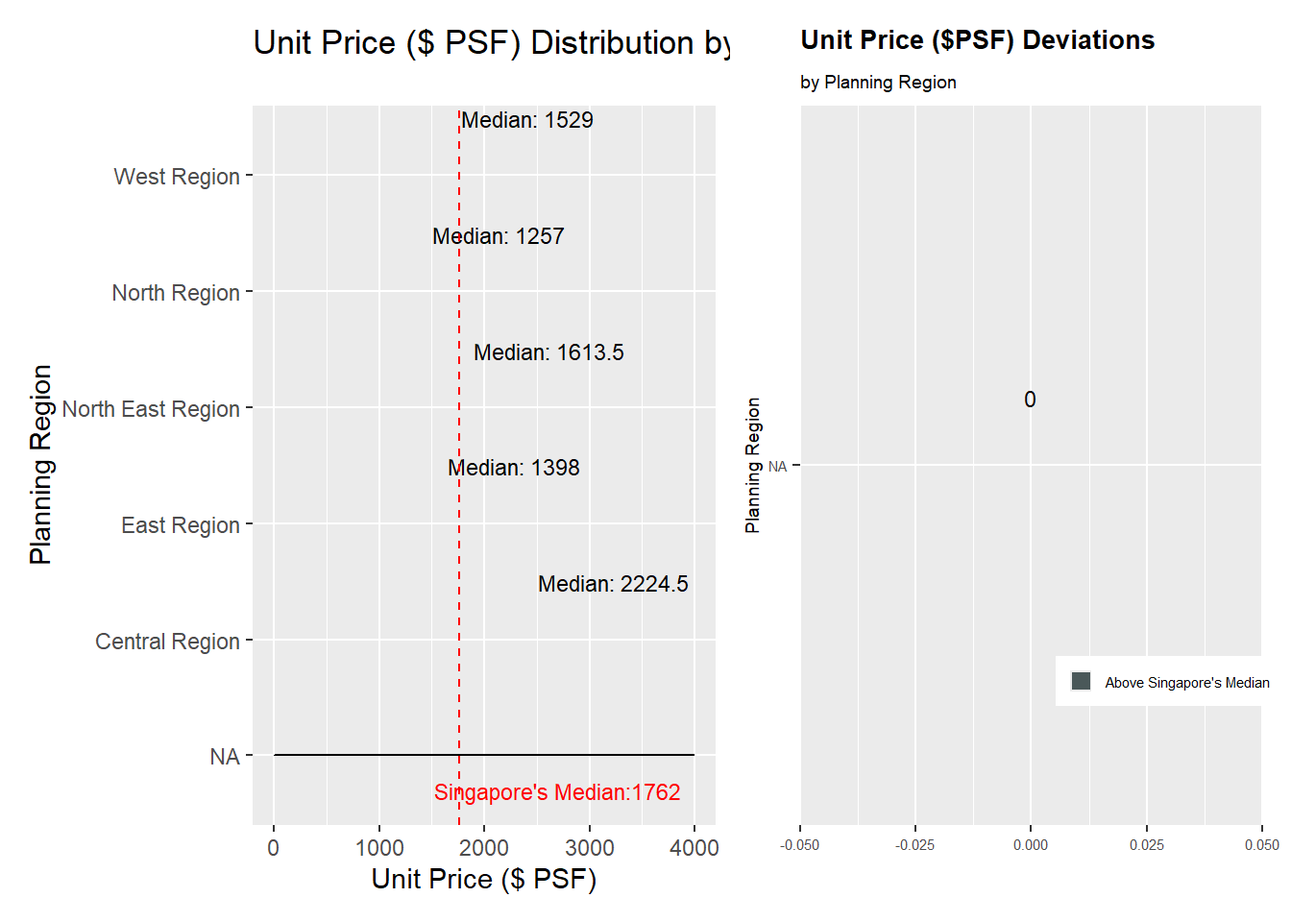
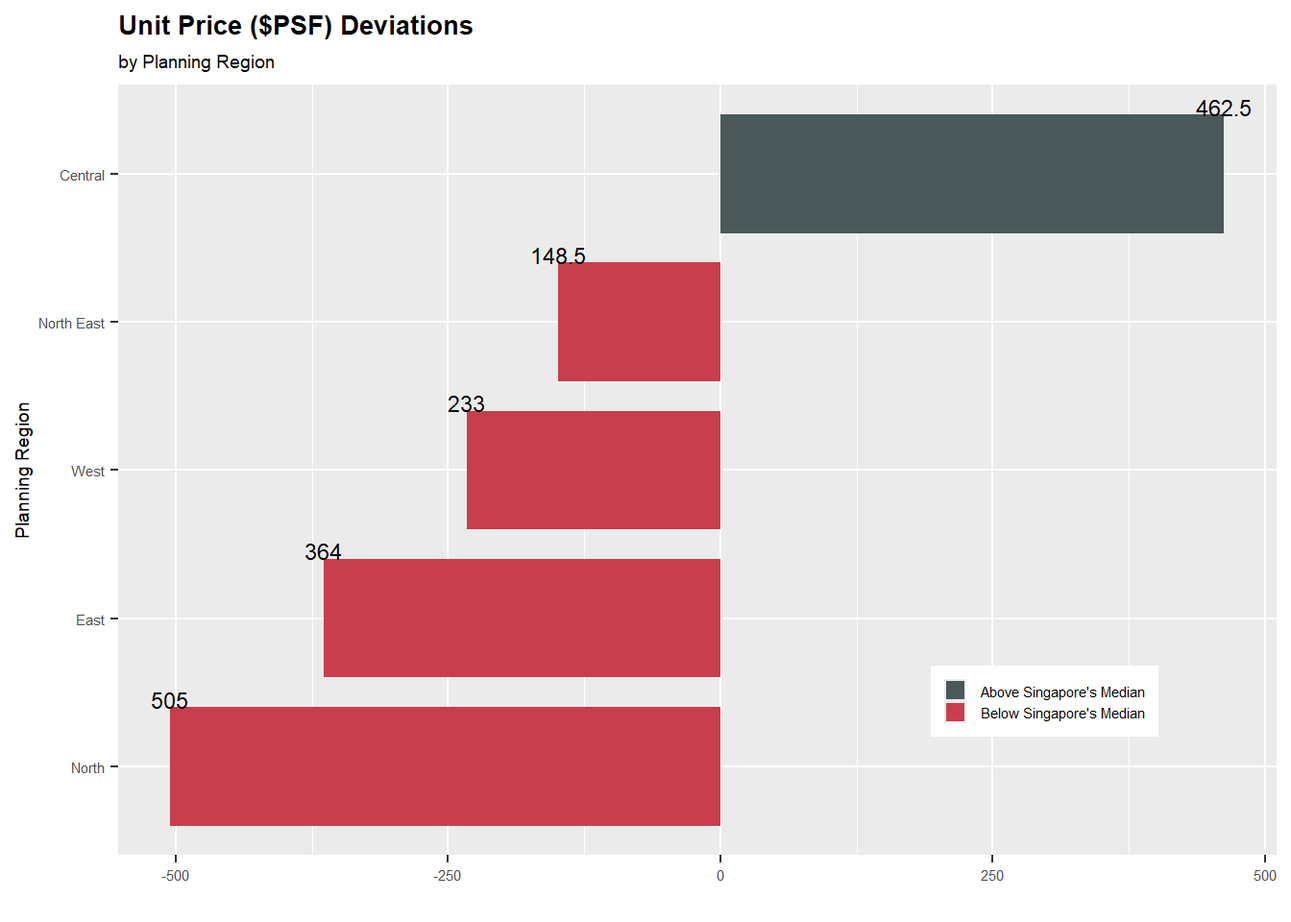
commit

diff --git a/_site/Take-home Exercise/Take-home_Ex02/Take-home_Ex02.html b/_site/Take-home Exercise/Take-home_Ex02/Take-home_Ex02.html
@@ -328,7 +328,7 @@ pre > code.sourceCode > span > a:first-child::before { text-decoration: underlin
     <div>
     <div class="quarto-title-meta-heading">Modified</div>
     <div class="quarto-title-meta-contents">
-      <p class="date-modified">May 1, 2024</p>
+      <p class="date-modified">May 2, 2024</p>
     </div>
   </div>
     
@@ -566,85 +566,78 @@ pre > code.sourceCode > span > a:first-child::before { text-decoration: underlin
 <span id="cb6-11"><a href="#cb6-11" aria-hidden="true" tabindex="-1"></a>                                  <span class="st">"North Region"</span> <span class="ot">=</span> <span class="st">"North"</span>,</span>
 <span id="cb6-12"><a href="#cb6-12" aria-hidden="true" tabindex="-1"></a>                                  <span class="st">"North East Region"</span> <span class="ot">=</span> <span class="st">"North East"</span>,</span>
 <span id="cb6-13"><a href="#cb6-13" aria-hidden="true" tabindex="-1"></a>                                  <span class="st">"West Region"</span> <span class="ot">=</span> <span class="st">"West"</span></span>
-<span id="cb6-14"><a href="#cb6-14" aria-hidden="true" tabindex="-1"></a>                                  ))</span>
-<span id="cb6-15"><a href="#cb6-15" aria-hidden="true" tabindex="-1"></a></span>
-<span id="cb6-16"><a href="#cb6-16" aria-hidden="true" tabindex="-1"></a>combined_ds <span class="ot">&lt;-</span> combined_ds <span class="sc">%&gt;%</span></span>
-<span id="cb6-17"><a href="#cb6-17" aria-hidden="true" tabindex="-1"></a>  <span class="fu">mutate</span>(<span class="st">`</span><span class="at">Planning Region</span><span class="st">`</span> <span class="ot">=</span> <span class="fu">factor</span>(<span class="st">`</span><span class="at">Planning Region</span><span class="st">`</span>, <span class="at">levels =</span> median_values<span class="sc">$</span><span class="st">`</span><span class="at">Planning Region</span><span class="st">`</span>[<span class="fu">order</span>(median_values<span class="sc">$</span>median_value)]))</span></code><button title="Copy to Clipboard" class="code-copy-button"><i class="bi"></i></button></pre></div>
+<span id="cb6-14"><a href="#cb6-14" aria-hidden="true" tabindex="-1"></a>                                  ))</span></code><button title="Copy to Clipboard" class="code-copy-button"><i class="bi"></i></button></pre></div>
 </div>
 <div class="cell">
-<div class="sourceCode cell-code" id="cb7"><pre class="sourceCode r code-with-copy"><code class="sourceCode r"><span id="cb7-1"><a href="#cb7-1" aria-hidden="true" tabindex="-1"></a>p1 <span class="ot">&lt;-</span> <span class="fu">ggplot</span>(combined_ds, </span>
-<span id="cb7-2"><a href="#cb7-2" aria-hidden="true" tabindex="-1"></a>       <span class="fu">aes</span>(<span class="at">x =</span> <span class="st">`</span><span class="at">Unit Price ($ PSF)</span><span class="st">`</span>, </span>
-<span id="cb7-3"><a href="#cb7-3" aria-hidden="true" tabindex="-1"></a>           <span class="at">y =</span> <span class="st">`</span><span class="at">Planning Region</span><span class="st">`</span>,</span>
-<span id="cb7-4"><a href="#cb7-4" aria-hidden="true" tabindex="-1"></a>           <span class="at">fill =</span> <span class="st">`</span><span class="at">Planning Region</span><span class="st">`</span>)) <span class="sc">+</span></span>
-<span id="cb7-5"><a href="#cb7-5" aria-hidden="true" tabindex="-1"></a>   <span class="fu">geom_density_ridges</span>(<span class="at">alpha =</span> <span class="fl">0.2</span>, <span class="at">quantile_lines =</span> <span class="cn">TRUE</span>, <span class="at">quantile_fun =</span> <span class="cf">function</span>(x, ...) <span class="fu">median</span>(x))  <span class="sc">+</span></span>
-<span id="cb7-6"><a href="#cb7-6" aria-hidden="true" tabindex="-1"></a>  <span class="fu">geom_text</span>(<span class="at">data =</span> median_values, </span>
-<span id="cb7-7"><a href="#cb7-7" aria-hidden="true" tabindex="-1"></a>            <span class="fu">aes</span>(<span class="at">x =</span> median_value, </span>
-<span id="cb7-8"><a href="#cb7-8" aria-hidden="true" tabindex="-1"></a>                <span class="at">y =</span> <span class="st">`</span><span class="at">Planning Region</span><span class="st">`</span>, </span>
-<span id="cb7-9"><a href="#cb7-9" aria-hidden="true" tabindex="-1"></a>                <span class="at">label =</span> <span class="fu">paste</span>(<span class="st">"Median:"</span>, <span class="fu">round</span>(median_value, <span class="dv">2</span>))),</span>
-<span id="cb7-10"><a href="#cb7-10" aria-hidden="true" tabindex="-1"></a>            <span class="at">hjust =</span> <span class="sc">-</span><span class="fl">0.2</span>, </span>
-<span id="cb7-11"><a href="#cb7-11" aria-hidden="true" tabindex="-1"></a>            <span class="at">vjust =</span> <span class="sc">-</span><span class="fl">2.8</span>, </span>
-<span id="cb7-12"><a href="#cb7-12" aria-hidden="true" tabindex="-1"></a>            <span class="at">color =</span> <span class="st">"black"</span>, </span>
-<span id="cb7-13"><a href="#cb7-13" aria-hidden="true" tabindex="-1"></a>            <span class="at">size =</span> <span class="dv">3</span>) <span class="sc">+</span></span>
-<span id="cb7-14"><a href="#cb7-14" aria-hidden="true" tabindex="-1"></a>  <span class="fu">labs</span>(<span class="at">title =</span> <span class="st">"Unit Price ($ PSF) Distribution by Planning Region"</span>,</span>
-<span id="cb7-15"><a href="#cb7-15" aria-hidden="true" tabindex="-1"></a>       <span class="at">x =</span> <span class="st">"Unit Price ($ PSF)"</span>,</span>
-<span id="cb7-16"><a href="#cb7-16" aria-hidden="true" tabindex="-1"></a>       <span class="at">y =</span> <span class="st">"Planning Region"</span>) <span class="sc">+</span></span>
-<span id="cb7-17"><a href="#cb7-17" aria-hidden="true" tabindex="-1"></a>  <span class="fu">geom_vline</span>(<span class="fu">aes</span>(<span class="at">xintercept =</span> <span class="fu">median</span>(<span class="st">`</span><span class="at">Unit Price ($ PSF)</span><span class="st">`</span>)), <span class="at">col=</span><span class="st">"red"</span>, <span class="at">linewidth=</span><span class="fl">0.5</span>, <span class="at">linetype =</span> <span class="st">"dashed"</span>) <span class="sc">+</span></span>
-<span id="cb7-18"><a href="#cb7-18" aria-hidden="true" tabindex="-1"></a>  <span class="fu">annotate</span>(<span class="st">"text"</span>, <span class="at">x=</span><span class="dv">2700</span>, <span class="at">y=</span><span class="fl">0.7</span>, <span class="at">label=</span><span class="fu">paste0</span>(<span class="st">"Singapore's Median:"</span>,<span class="fu">median</span>(combined_ds<span class="sc">$</span><span class="st">`</span><span class="at">Unit Price ($ PSF)</span><span class="st">`</span>)), </span>
-<span id="cb7-19"><a href="#cb7-19" aria-hidden="true" tabindex="-1"></a>           <span class="at">size=</span><span class="dv">3</span>, <span class="at">color=</span><span class="st">"red"</span>) <span class="sc">+</span></span>
-<span id="cb7-20"><a href="#cb7-20" aria-hidden="true" tabindex="-1"></a>   <span class="fu">guides</span>(<span class="at">fill =</span> <span class="cn">FALSE</span>) <span class="sc">+</span> <span class="co"># Remove legend for Planning Region</span></span>
-<span id="cb7-21"><a href="#cb7-21" aria-hidden="true" tabindex="-1"></a>  <span class="fu">xlim</span>(<span class="dv">0</span>, <span class="dv">4000</span>)  <span class="co"># Limit x-axis to 4000</span></span>
-<span id="cb7-22"><a href="#cb7-22" aria-hidden="true" tabindex="-1"></a>p1</span></code><button title="Copy to Clipboard" class="code-copy-button"><i class="bi"></i></button></pre></div>
-<div class="cell-output-display">
-<div>
-<figure class="figure">
-<p><img src="Take-home_Ex02_files/figure-html/unnamed-chunk-8-1.png" class="img-fluid figure-img" width="672"></p>
-</figure>
-</div>
-</div>
+<div class="sourceCode cell-code" id="cb7"><pre class="sourceCode r code-with-copy"><code class="sourceCode r"><span id="cb7-1"><a href="#cb7-1" aria-hidden="true" tabindex="-1"></a>combined_ds <span class="ot">&lt;-</span> combined_ds <span class="sc">%&gt;%</span></span>
+<span id="cb7-2"><a href="#cb7-2" aria-hidden="true" tabindex="-1"></a>  <span class="fu">mutate</span>(<span class="st">`</span><span class="at">Planning Region</span><span class="st">`</span> <span class="ot">=</span> <span class="fu">factor</span>(<span class="st">`</span><span class="at">Planning Region</span><span class="st">`</span>, <span class="at">levels =</span> median_values<span class="sc">$</span><span class="st">`</span><span class="at">Planning Region</span><span class="st">`</span>[<span class="fu">order</span>(median_values<span class="sc">$</span>median_value)]))</span></code><button title="Copy to Clipboard" class="code-copy-button"><i class="bi"></i></button></pre></div>
 </div>
 <div class="cell">
-<div class="sourceCode cell-code" id="cb8"><pre class="sourceCode r code-with-copy"><code class="sourceCode r"><span id="cb8-1"><a href="#cb8-1" aria-hidden="true" tabindex="-1"></a><span class="co"># Classifying the Median into Above and Below Singapore's Median</span></span>
-<span id="cb8-2"><a href="#cb8-2" aria-hidden="true" tabindex="-1"></a>df_Aavg <span class="ot">&lt;-</span> combined_ds <span class="sc">%&gt;%</span></span>
-<span id="cb8-3"><a href="#cb8-3" aria-hidden="true" tabindex="-1"></a>  <span class="fu">group_by</span>(<span class="st">`</span><span class="at">Planning Region</span><span class="st">`</span>) <span class="sc">%&gt;%</span></span>
-<span id="cb8-4"><a href="#cb8-4" aria-hidden="true" tabindex="-1"></a>  <span class="fu">summarise</span>(<span class="at">avg_Aprice =</span> <span class="fu">median</span>(<span class="st">`</span><span class="at">Unit Price ($ PSF)</span><span class="st">`</span>))</span>
-<span id="cb8-5"><a href="#cb8-5" aria-hidden="true" tabindex="-1"></a>df_Aavg<span class="sc">$</span>p_z <span class="ot">&lt;-</span> <span class="fu">round</span>((df_Aavg<span class="sc">$</span>avg_Aprice <span class="sc">-</span> <span class="fu">median</span>(combined_ds<span class="sc">$</span><span class="st">`</span><span class="at">Unit Price ($ PSF)</span><span class="st">`</span>)), <span class="dv">2</span>)</span>
-<span id="cb8-6"><a href="#cb8-6" aria-hidden="true" tabindex="-1"></a>df_Aavg<span class="sc">$</span>p_ztype <span class="ot">&lt;-</span> <span class="fu">ifelse</span>(df_Aavg<span class="sc">$</span>p_z <span class="sc">&lt;</span> <span class="dv">0</span>, <span class="st">"below"</span>, <span class="st">"above"</span>)</span>
-<span id="cb8-7"><a href="#cb8-7" aria-hidden="true" tabindex="-1"></a>df_Aavg <span class="ot">&lt;-</span> df_Aavg[<span class="fu">order</span>(df_Aavg<span class="sc">$</span>p_z), ]</span>
-<span id="cb8-8"><a href="#cb8-8" aria-hidden="true" tabindex="-1"></a>df_Aavg<span class="sc">$</span><span class="st">`</span><span class="at">Planning Region</span><span class="st">`</span> <span class="ot">&lt;-</span> <span class="fu">factor</span>(df_Aavg<span class="sc">$</span><span class="st">`</span><span class="at">Planning Region</span><span class="st">`</span>, <span class="at">levels =</span> df_Aavg<span class="sc">$</span><span class="st">`</span><span class="at">Planning Region</span><span class="st">`</span>)</span>
-<span id="cb8-9"><a href="#cb8-9" aria-hidden="true" tabindex="-1"></a></span>
-<span id="cb8-10"><a href="#cb8-10" aria-hidden="true" tabindex="-1"></a>p2 <span class="ot">&lt;-</span> <span class="fu">ggplot</span>(df_Aavg, <span class="fu">aes</span>(<span class="at">x =</span> <span class="st">`</span><span class="at">Planning Region</span><span class="st">`</span>, <span class="at">y =</span> p_z, <span class="at">label =</span> p_z)) <span class="sc">+</span></span>
-<span id="cb8-11"><a href="#cb8-11" aria-hidden="true" tabindex="-1"></a>  <span class="fu">geom_bar</span>(<span class="at">stat =</span> <span class="st">"identity"</span>, <span class="fu">aes</span>(<span class="at">fill =</span> p_ztype), <span class="at">position =</span> <span class="fu">position_dodge2</span>(<span class="at">width =</span> <span class="dv">2</span>), <span class="at">width =</span> <span class="fl">0.8</span>) <span class="sc">+</span></span>
-<span id="cb8-12"><a href="#cb8-12" aria-hidden="true" tabindex="-1"></a>  <span class="fu">scale_fill_manual</span>(<span class="at">name =</span> <span class="st">"Average Price"</span>, <span class="at">labels =</span> <span class="fu">c</span>(<span class="st">"Above Singapore's Median"</span>, <span class="st">"Below Singapore's Median"</span>), <span class="at">values =</span> <span class="fu">c</span>(<span class="st">"below"</span> <span class="ot">=</span> <span class="st">"#C83E4D"</span>, <span class="st">"above"</span> <span class="ot">=</span> <span class="st">"#4A5859"</span>)) <span class="sc">+</span></span>
-<span id="cb8-13"><a href="#cb8-13" aria-hidden="true" tabindex="-1"></a>  <span class="fu">labs</span>(<span class="at">title =</span> <span class="st">"Unit Price ($PSF) Deviations"</span>, <span class="at">y =</span> <span class="st">""</span>, <span class="at">subtitle =</span> <span class="st">"by Planning Region"</span>) <span class="sc">+</span></span>
-<span id="cb8-14"><a href="#cb8-14" aria-hidden="true" tabindex="-1"></a>  <span class="fu">coord_flip</span>() <span class="sc">+</span></span>
-<span id="cb8-15"><a href="#cb8-15" aria-hidden="true" tabindex="-1"></a>  <span class="fu">theme</span>(<span class="at">legend.position =</span> <span class="st">"None"</span>, <span class="at">text =</span> <span class="fu">element_text</span>(<span class="at">size =</span> <span class="dv">8</span>), <span class="at">plot.title =</span> <span class="fu">element_text</span>(<span class="at">size =</span> <span class="dv">10</span>, <span class="at">face =</span> <span class="st">"bold"</span>))  <span class="sc">+</span></span>
-<span id="cb8-16"><a href="#cb8-16" aria-hidden="true" tabindex="-1"></a>  <span class="fu">theme</span>(<span class="at">text =</span> <span class="fu">element_text</span>(<span class="at">size =</span> <span class="dv">7</span>),</span>
-<span id="cb8-17"><a href="#cb8-17" aria-hidden="true" tabindex="-1"></a>        <span class="at">legend.title =</span> <span class="fu">element_blank</span>(),</span>
-<span id="cb8-18"><a href="#cb8-18" aria-hidden="true" tabindex="-1"></a>        <span class="at">legend.position =</span> <span class="fu">c</span>(<span class="fl">0.8</span>, <span class="fl">0.2</span>),</span>
-<span id="cb8-19"><a href="#cb8-19" aria-hidden="true" tabindex="-1"></a>        <span class="at">legend.key.size =</span> <span class="fu">unit</span>(<span class="fl">0.3</span>, <span class="st">'cm'</span>),</span>
-<span id="cb8-20"><a href="#cb8-20" aria-hidden="true" tabindex="-1"></a>        <span class="at">legend.key.height =</span> <span class="fu">unit</span>(<span class="fl">0.3</span>, <span class="st">'cm'</span>),</span>
-<span id="cb8-21"><a href="#cb8-21" aria-hidden="true" tabindex="-1"></a>        <span class="at">legend.key.width =</span> <span class="fu">unit</span>(<span class="fl">0.3</span>, <span class="st">'cm'</span>)) <span class="sc">+</span></span>
-<span id="cb8-22"><a href="#cb8-22" aria-hidden="true" tabindex="-1"></a>  <span class="fu">geom_text</span>(<span class="fu">aes</span>(<span class="at">x =</span> <span class="st">`</span><span class="at">Planning Region</span><span class="st">`</span>, </span>
-<span id="cb8-23"><a href="#cb8-23" aria-hidden="true" tabindex="-1"></a>                <span class="at">y =</span> df_Aavg<span class="sc">$</span>p_z, </span>
-<span id="cb8-24"><a href="#cb8-24" aria-hidden="true" tabindex="-1"></a>                <span class="at">label =</span> <span class="fu">abs</span>(df_Aavg<span class="sc">$</span>p_z)),</span>
-<span id="cb8-25"><a href="#cb8-25" aria-hidden="true" tabindex="-1"></a>            <span class="at">hjust =</span> <span class="fl">0.5</span>,</span>
-<span id="cb8-26"><a href="#cb8-26" aria-hidden="true" tabindex="-1"></a>            <span class="at">vjust =</span> <span class="sc">-</span><span class="fl">3.4</span>,</span>
-<span id="cb8-27"><a href="#cb8-27" aria-hidden="true" tabindex="-1"></a>            <span class="at">size =</span> <span class="dv">3</span>)</span>
-<span id="cb8-28"><a href="#cb8-28" aria-hidden="true" tabindex="-1"></a>p2</span></code><button title="Copy to Clipboard" class="code-copy-button"><i class="bi"></i></button></pre></div>
-<div class="cell-output-display">
-<div>
-<figure class="figure">
-<p><img src="Take-home_Ex02_files/figure-html/unnamed-chunk-9-1.png" class="img-fluid figure-img" width="672"></p>
-</figure>
-</div>
-</div>
+<div class="sourceCode cell-code" id="cb8"><pre class="sourceCode r code-with-copy"><code class="sourceCode r"><span id="cb8-1"><a href="#cb8-1" aria-hidden="true" tabindex="-1"></a>p1 <span class="ot">&lt;-</span> <span class="fu">ggplot</span>(combined_ds, </span>
+<span id="cb8-2"><a href="#cb8-2" aria-hidden="true" tabindex="-1"></a>       <span class="fu">aes</span>(<span class="at">x =</span> <span class="st">`</span><span class="at">Unit Price ($ PSF)</span><span class="st">`</span>, </span>
+<span id="cb8-3"><a href="#cb8-3" aria-hidden="true" tabindex="-1"></a>           <span class="at">y =</span> <span class="st">`</span><span class="at">Planning Region</span><span class="st">`</span>,</span>
+<span id="cb8-4"><a href="#cb8-4" aria-hidden="true" tabindex="-1"></a>           <span class="at">fill =</span> <span class="st">`</span><span class="at">Planning Region</span><span class="st">`</span>)) <span class="sc">+</span></span>
+<span id="cb8-5"><a href="#cb8-5" aria-hidden="true" tabindex="-1"></a>   <span class="fu">geom_density_ridges</span>(<span class="at">alpha =</span> <span class="fl">0.2</span>, <span class="at">quantile_lines =</span> <span class="cn">TRUE</span>, <span class="at">quantile_fun =</span> <span class="cf">function</span>(x, ...) <span class="fu">median</span>(x))  <span class="sc">+</span></span>
+<span id="cb8-6"><a href="#cb8-6" aria-hidden="true" tabindex="-1"></a>  <span class="fu">geom_text</span>(<span class="at">data =</span> median_values, </span>
+<span id="cb8-7"><a href="#cb8-7" aria-hidden="true" tabindex="-1"></a>            <span class="fu">aes</span>(<span class="at">x =</span> median_value, </span>
+<span id="cb8-8"><a href="#cb8-8" aria-hidden="true" tabindex="-1"></a>                <span class="at">y =</span> <span class="st">`</span><span class="at">Planning Region</span><span class="st">`</span>, </span>
+<span id="cb8-9"><a href="#cb8-9" aria-hidden="true" tabindex="-1"></a>                <span class="at">label =</span> <span class="fu">paste</span>(<span class="st">"Median:"</span>, <span class="fu">round</span>(median_value, <span class="dv">2</span>))),</span>
+<span id="cb8-10"><a href="#cb8-10" aria-hidden="true" tabindex="-1"></a>            <span class="at">hjust =</span> <span class="sc">-</span><span class="fl">0.2</span>, </span>
+<span id="cb8-11"><a href="#cb8-11" aria-hidden="true" tabindex="-1"></a>            <span class="at">vjust =</span> <span class="sc">-</span><span class="fl">2.8</span>, </span>
+<span id="cb8-12"><a href="#cb8-12" aria-hidden="true" tabindex="-1"></a>            <span class="at">color =</span> <span class="st">"black"</span>, </span>
+<span id="cb8-13"><a href="#cb8-13" aria-hidden="true" tabindex="-1"></a>            <span class="at">size =</span> <span class="dv">3</span>) <span class="sc">+</span></span>
+<span id="cb8-14"><a href="#cb8-14" aria-hidden="true" tabindex="-1"></a>  <span class="fu">labs</span>(<span class="at">title =</span> <span class="st">"Unit Price ($ PSF) Distribution by Planning Region"</span>,</span>
+<span id="cb8-15"><a href="#cb8-15" aria-hidden="true" tabindex="-1"></a>       <span class="at">x =</span> <span class="st">"Unit Price ($ PSF)"</span>,</span>
+<span id="cb8-16"><a href="#cb8-16" aria-hidden="true" tabindex="-1"></a>       <span class="at">y =</span> <span class="st">"Planning Region"</span>) <span class="sc">+</span></span>
+<span id="cb8-17"><a href="#cb8-17" aria-hidden="true" tabindex="-1"></a>  <span class="fu">geom_vline</span>(<span class="fu">aes</span>(<span class="at">xintercept =</span> <span class="fu">median</span>(<span class="st">`</span><span class="at">Unit Price ($ PSF)</span><span class="st">`</span>)), <span class="at">col=</span><span class="st">"red"</span>, <span class="at">linewidth=</span><span class="fl">0.5</span>, <span class="at">linetype =</span> <span class="st">"dashed"</span>) <span class="sc">+</span></span>
+<span id="cb8-18"><a href="#cb8-18" aria-hidden="true" tabindex="-1"></a>  <span class="fu">annotate</span>(<span class="st">"text"</span>, <span class="at">x=</span><span class="dv">2700</span>, <span class="at">y=</span><span class="fl">0.7</span>, <span class="at">label=</span><span class="fu">paste0</span>(<span class="st">"Singapore's Median:"</span>,<span class="fu">median</span>(combined_ds<span class="sc">$</span><span class="st">`</span><span class="at">Unit Price ($ PSF)</span><span class="st">`</span>)), </span>
+<span id="cb8-19"><a href="#cb8-19" aria-hidden="true" tabindex="-1"></a>           <span class="at">size=</span><span class="dv">3</span>, <span class="at">color=</span><span class="st">"red"</span>) <span class="sc">+</span></span>
+<span id="cb8-20"><a href="#cb8-20" aria-hidden="true" tabindex="-1"></a>   <span class="fu">guides</span>(<span class="at">fill =</span> <span class="cn">FALSE</span>) <span class="sc">+</span> <span class="co"># Remove legend for Planning Region</span></span>
+<span id="cb8-21"><a href="#cb8-21" aria-hidden="true" tabindex="-1"></a>  <span class="fu">xlim</span>(<span class="dv">0</span>, <span class="dv">4000</span>)  <span class="co"># Limit x-axis to 4000</span></span></code><button title="Copy to Clipboard" class="code-copy-button"><i class="bi"></i></button></pre></div>
 </div>
 <div class="cell">
-<div class="sourceCode cell-code" id="cb9"><pre class="sourceCode r code-with-copy"><code class="sourceCode r"><span id="cb9-1"><a href="#cb9-1" aria-hidden="true" tabindex="-1"></a>p1<span class="sc">+</span>p2</span></code><button title="Copy to Clipboard" class="code-copy-button"><i class="bi"></i></button></pre></div>
+<div class="sourceCode cell-code" id="cb9"><pre class="sourceCode r code-with-copy"><code class="sourceCode r"><span id="cb9-1"><a href="#cb9-1" aria-hidden="true" tabindex="-1"></a><span class="co"># Classifying the Median into Above and Below Singapore's Median</span></span>
+<span id="cb9-2"><a href="#cb9-2" aria-hidden="true" tabindex="-1"></a>df_Aavg <span class="ot">&lt;-</span> combined_ds <span class="sc">%&gt;%</span></span>
+<span id="cb9-3"><a href="#cb9-3" aria-hidden="true" tabindex="-1"></a>  <span class="fu">group_by</span>(<span class="st">`</span><span class="at">Planning Region</span><span class="st">`</span>) <span class="sc">%&gt;%</span></span>
+<span id="cb9-4"><a href="#cb9-4" aria-hidden="true" tabindex="-1"></a>  <span class="fu">summarise</span>(<span class="at">avg_Aprice =</span> <span class="fu">median</span>(<span class="st">`</span><span class="at">Unit Price ($ PSF)</span><span class="st">`</span>))</span>
+<span id="cb9-5"><a href="#cb9-5" aria-hidden="true" tabindex="-1"></a>df_Aavg<span class="sc">$</span>p_z <span class="ot">&lt;-</span> <span class="fu">round</span>((df_Aavg<span class="sc">$</span>avg_Aprice <span class="sc">-</span> <span class="fu">median</span>(combined_ds<span class="sc">$</span><span class="st">`</span><span class="at">Unit Price ($ PSF)</span><span class="st">`</span>)), <span class="dv">2</span>)</span>
+<span id="cb9-6"><a href="#cb9-6" aria-hidden="true" tabindex="-1"></a>df_Aavg<span class="sc">$</span>p_ztype <span class="ot">&lt;-</span> <span class="fu">ifelse</span>(df_Aavg<span class="sc">$</span>p_z <span class="sc">&lt;</span> <span class="dv">0</span>, <span class="st">"below"</span>, <span class="st">"above"</span>)</span>
+<span id="cb9-7"><a href="#cb9-7" aria-hidden="true" tabindex="-1"></a>df_Aavg <span class="ot">&lt;-</span> df_Aavg[<span class="fu">order</span>(df_Aavg<span class="sc">$</span>p_z), ]</span>
+<span id="cb9-8"><a href="#cb9-8" aria-hidden="true" tabindex="-1"></a>df_Aavg<span class="sc">$</span><span class="st">`</span><span class="at">Planning Region</span><span class="st">`</span> <span class="ot">&lt;-</span> <span class="fu">factor</span>(df_Aavg<span class="sc">$</span><span class="st">`</span><span class="at">Planning Region</span><span class="st">`</span>, <span class="at">levels =</span> df_Aavg<span class="sc">$</span><span class="st">`</span><span class="at">Planning Region</span><span class="st">`</span>)</span>
+<span id="cb9-9"><a href="#cb9-9" aria-hidden="true" tabindex="-1"></a></span>
+<span id="cb9-10"><a href="#cb9-10" aria-hidden="true" tabindex="-1"></a>p2 <span class="ot">&lt;-</span> <span class="fu">ggplot</span>(df_Aavg, <span class="fu">aes</span>(<span class="at">x =</span> <span class="st">`</span><span class="at">Planning Region</span><span class="st">`</span>, <span class="at">y =</span> p_z, <span class="at">label =</span> p_z)) <span class="sc">+</span></span>
+<span id="cb9-11"><a href="#cb9-11" aria-hidden="true" tabindex="-1"></a>  <span class="fu">geom_bar</span>(<span class="at">stat =</span> <span class="st">"identity"</span>, <span class="fu">aes</span>(<span class="at">fill =</span> p_ztype), <span class="at">position =</span> <span class="fu">position_dodge2</span>(<span class="at">width =</span> <span class="dv">2</span>), <span class="at">width =</span> <span class="fl">0.8</span>) <span class="sc">+</span></span>
+<span id="cb9-12"><a href="#cb9-12" aria-hidden="true" tabindex="-1"></a>  <span class="fu">scale_fill_manual</span>(<span class="at">name =</span> <span class="st">"Average Price"</span>, <span class="at">labels =</span> <span class="fu">c</span>(<span class="st">"Above Singapore's Median"</span>, <span class="st">"Below Singapore's Median"</span>), <span class="at">values =</span> <span class="fu">c</span>(<span class="st">"below"</span> <span class="ot">=</span> <span class="st">"#C83E4D"</span>, <span class="st">"above"</span> <span class="ot">=</span> <span class="st">"#4A5859"</span>)) <span class="sc">+</span></span>
+<span id="cb9-13"><a href="#cb9-13" aria-hidden="true" tabindex="-1"></a>  <span class="fu">labs</span>(<span class="at">title =</span> <span class="st">"Unit Price ($PSF) Deviations"</span>, <span class="at">y =</span> <span class="st">""</span>, <span class="at">subtitle =</span> <span class="st">"by Planning Region"</span>) <span class="sc">+</span></span>
+<span id="cb9-14"><a href="#cb9-14" aria-hidden="true" tabindex="-1"></a>  <span class="fu">coord_flip</span>() <span class="sc">+</span></span>
+<span id="cb9-15"><a href="#cb9-15" aria-hidden="true" tabindex="-1"></a>  <span class="fu">theme</span>(<span class="at">legend.position =</span> <span class="st">"None"</span>, <span class="at">text =</span> <span class="fu">element_text</span>(<span class="at">size =</span> <span class="dv">8</span>), <span class="at">plot.title =</span> <span class="fu">element_text</span>(<span class="at">size =</span> <span class="dv">10</span>, <span class="at">face =</span> <span class="st">"bold"</span>))  <span class="sc">+</span></span>
+<span id="cb9-16"><a href="#cb9-16" aria-hidden="true" tabindex="-1"></a>  <span class="fu">theme</span>(<span class="at">text =</span> <span class="fu">element_text</span>(<span class="at">size =</span> <span class="dv">7</span>),</span>
+<span id="cb9-17"><a href="#cb9-17" aria-hidden="true" tabindex="-1"></a>        <span class="at">legend.title =</span> <span class="fu">element_blank</span>(),</span>
+<span id="cb9-18"><a href="#cb9-18" aria-hidden="true" tabindex="-1"></a>        <span class="at">legend.position =</span> <span class="fu">c</span>(<span class="fl">0.8</span>, <span class="fl">0.2</span>),</span>
+<span id="cb9-19"><a href="#cb9-19" aria-hidden="true" tabindex="-1"></a>        <span class="at">legend.key.size =</span> <span class="fu">unit</span>(<span class="fl">0.3</span>, <span class="st">'cm'</span>),</span>
+<span id="cb9-20"><a href="#cb9-20" aria-hidden="true" tabindex="-1"></a>        <span class="at">legend.key.height =</span> <span class="fu">unit</span>(<span class="fl">0.3</span>, <span class="st">'cm'</span>),</span>
+<span id="cb9-21"><a href="#cb9-21" aria-hidden="true" tabindex="-1"></a>        <span class="at">legend.key.width =</span> <span class="fu">unit</span>(<span class="fl">0.3</span>, <span class="st">'cm'</span>)) <span class="sc">+</span></span>
+<span id="cb9-22"><a href="#cb9-22" aria-hidden="true" tabindex="-1"></a>  <span class="fu">geom_text</span>(<span class="fu">aes</span>(<span class="at">x =</span> <span class="st">`</span><span class="at">Planning Region</span><span class="st">`</span>, </span>
+<span id="cb9-23"><a href="#cb9-23" aria-hidden="true" tabindex="-1"></a>                <span class="at">y =</span> df_Aavg<span class="sc">$</span>p_z, </span>
+<span id="cb9-24"><a href="#cb9-24" aria-hidden="true" tabindex="-1"></a>                <span class="at">label =</span> <span class="fu">abs</span>(df_Aavg<span class="sc">$</span>p_z)),</span>
+<span id="cb9-25"><a href="#cb9-25" aria-hidden="true" tabindex="-1"></a>            <span class="at">hjust =</span> <span class="fl">0.5</span>,</span>
+<span id="cb9-26"><a href="#cb9-26" aria-hidden="true" tabindex="-1"></a>            <span class="at">vjust =</span> <span class="sc">-</span><span class="fl">3.4</span>,</span>
+<span id="cb9-27"><a href="#cb9-27" aria-hidden="true" tabindex="-1"></a>            <span class="at">size =</span> <span class="dv">3</span>)</span>
+<span id="cb9-28"><a href="#cb9-28" aria-hidden="true" tabindex="-1"></a>p2</span></code><button title="Copy to Clipboard" class="code-copy-button"><i class="bi"></i></button></pre></div>
 <div class="cell-output-display">
 <div>
 <figure class="figure">
 <p><img src="Take-home_Ex02_files/figure-html/unnamed-chunk-10-1.png" class="img-fluid figure-img" width="672"></p>
+</figure>
+</div>
+</div>
+</div>
+<div class="cell">
+<div class="sourceCode cell-code" id="cb10"><pre class="sourceCode r code-with-copy"><code class="sourceCode r"><span id="cb10-1"><a href="#cb10-1" aria-hidden="true" tabindex="-1"></a>p1<span class="sc">+</span>p2</span></code><button title="Copy to Clipboard" class="code-copy-button"><i class="bi"></i></button></pre></div>
+<div class="cell-output-display">
+<div>
+<figure class="figure">
+<p><img src="Take-home_Ex02_files/figure-html/unnamed-chunk-11-1.png" class="img-fluid figure-img" width="672"></p>
 </figure>
 </div>
 </div>
